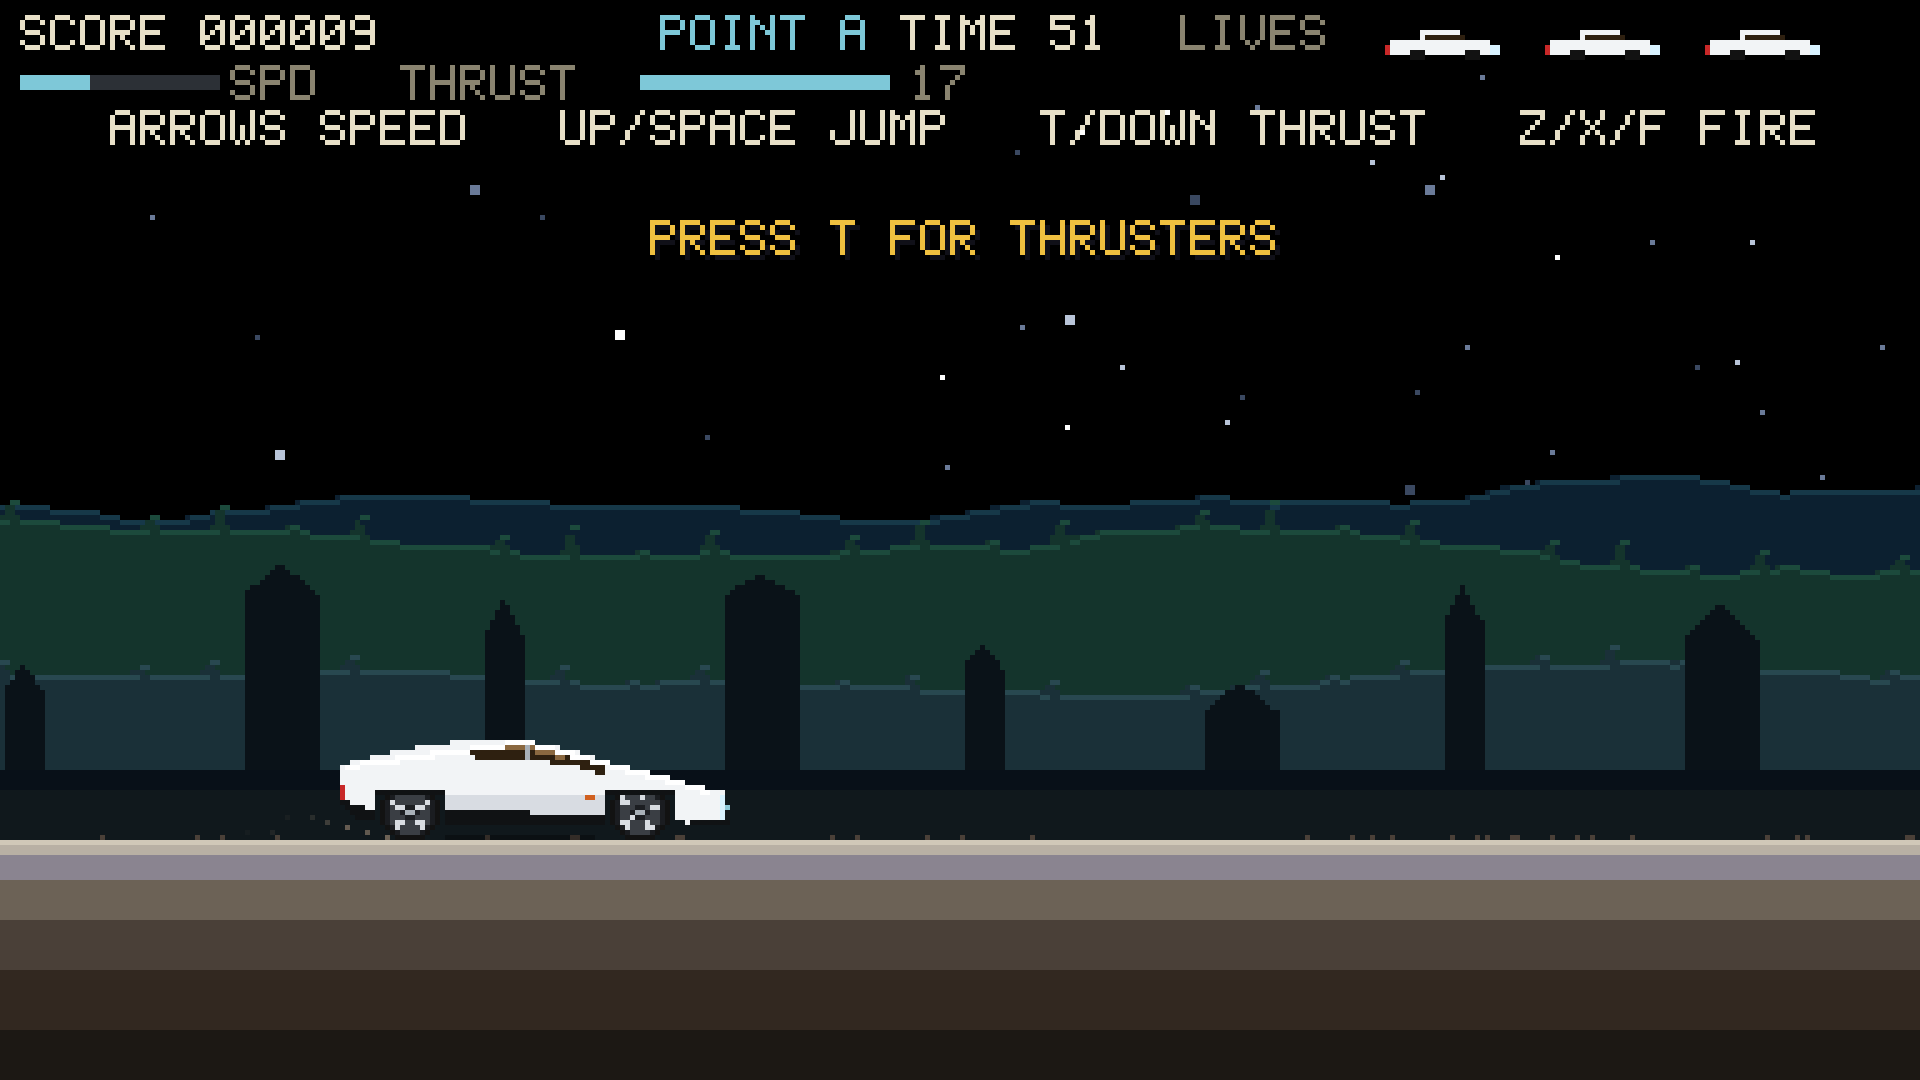
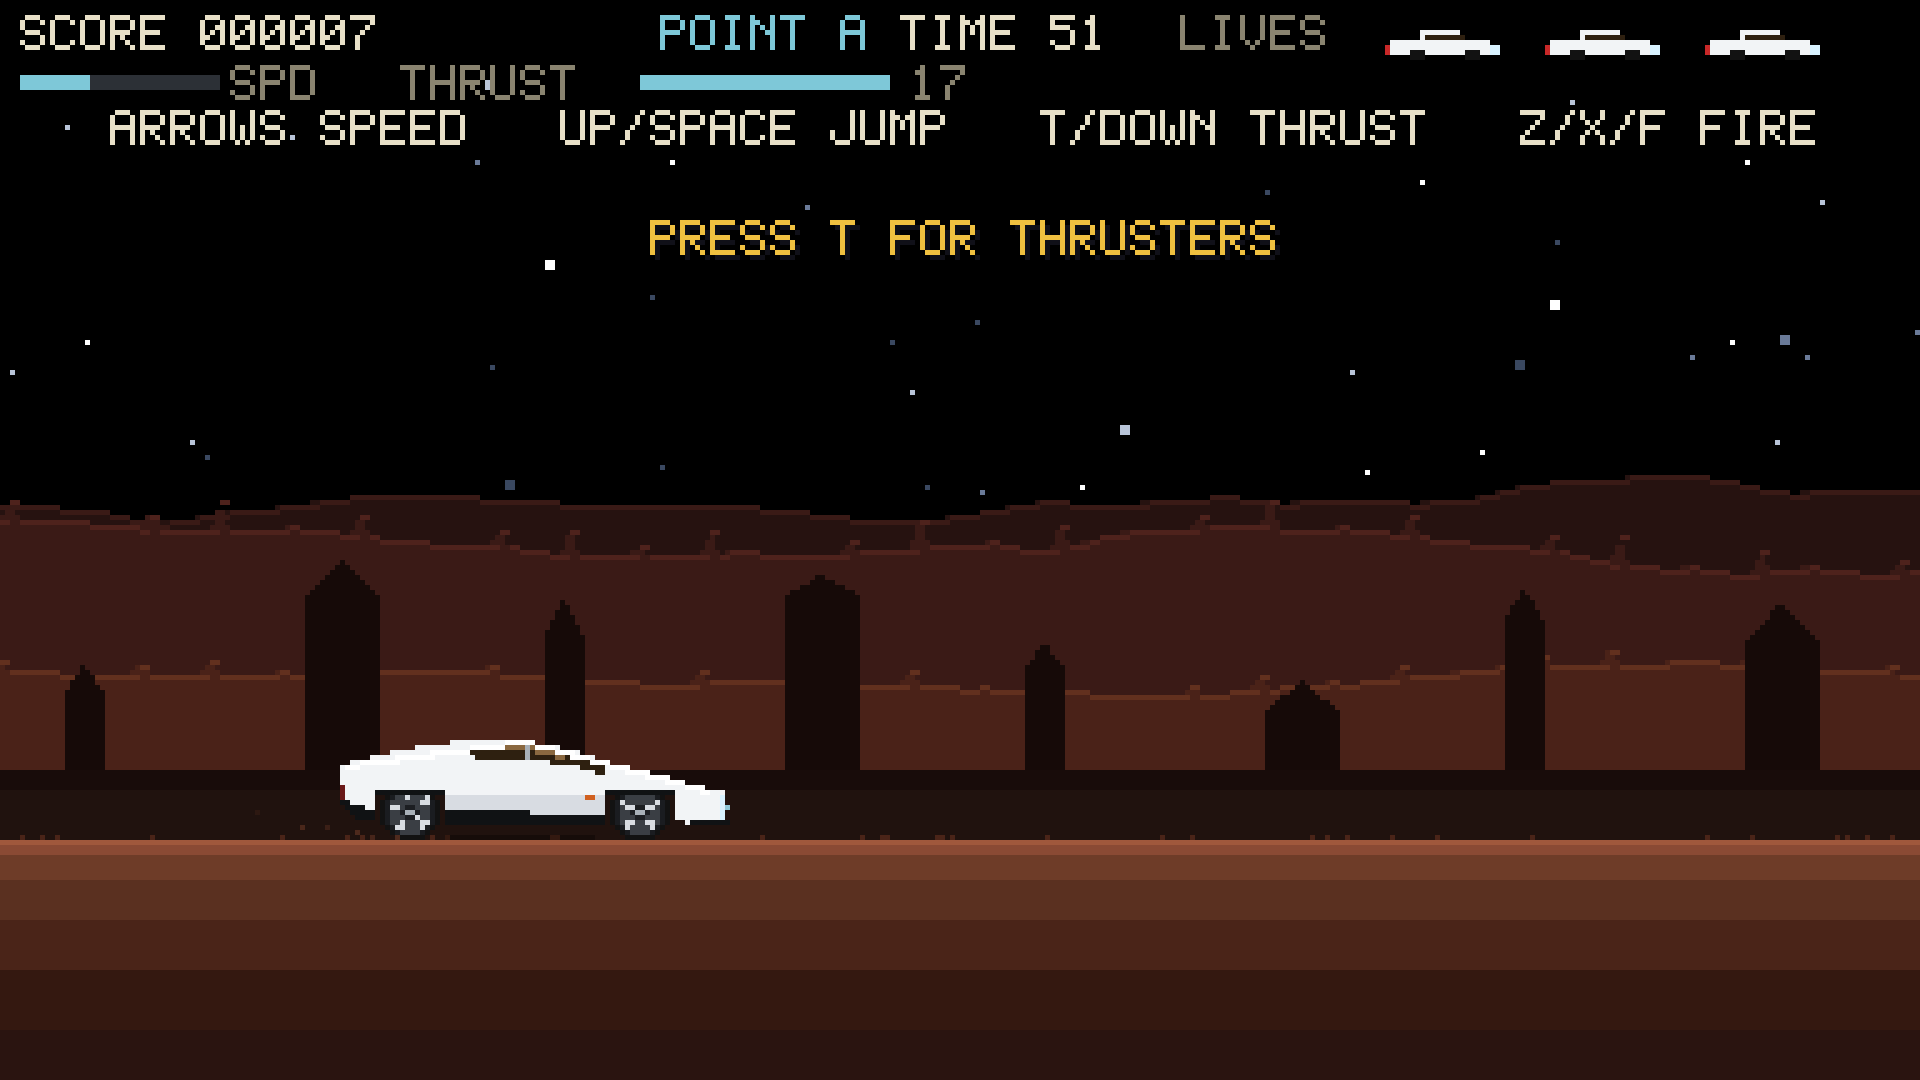
Tint the moon rust-red, lower the forward shot, and add a chiptune
Retint every landscape layer to dark reddish sand while keeping the
black sky and all existing shapes, so vehicles, rocks, craters, and
HUD still read clearly on both levels and the ending.

Fire the forward bullet just above the ground at rock height so it
destroys small and big rocks on both vehicles; the upward shot is
unchanged. Rocks still break in one hit.

Add an original looping WebAudio chiptune (E-minor hook, G-minor
level-2 variation) that starts after play begins, sits under the SFX
bus, mutes with M, and yields to the ending fanfare and game-over
sting.

diff --git a/index.html b/index.html
@@ -88,6 +88,7 @@
   const GRAVITY = 0.05;
   const JUMP_APEX = 58.8; // discrete peak of JUMP_V0 / GRAVITY
   const JUMP_CARRY = 0.9; // extra px/frame while airborne, so min-speed jumps still clear
+  const FORWARD_SHOT_Y = 6; // px above the vehicle's feet; just above ground, at rock height
   const HEAD_W = 19, HEAD_H = 26;
   const HEAD_MOUTH_X = 0.59, HEAD_MOUTH_Y = 0.69;
 
@@ -95,18 +96,18 @@
   const C = {
     sky: "#000000",
     star: ["#ffffff", "#b8c4d8", "#6a7a98", "#3a4860"],
-    far: "#16203a",
-    farHi: "#1e2c4e",
-    mid: "#3a2450",
-    midHi: "#4a3064",
-    near: "#2a3c44",
-    nearHi: "#355058",
-    city: "#0c141e",
+    far: "#2a1410",
+    farHi: "#3c1e18",
+    mid: "#3e1c16",
+    midHi: "#542820",
+    near: "#4e261a",
+    nearHi: "#6a3422",
+    city: "#1a0c0a",
     cityWin: ["#c8a24a", "#7ec8d8", "#d87840"],
-    ground: ["#b8b0a4", "#8a8490", "#6c6256", "#4a4038", "#322820", "#1c1814"],
-    lip: "#d0c8b8",
-    crater: "#141210",
-    craterWall: "#3a342c",
+    ground: ["#8a4a34", "#6e3c28", "#5a3020", "#4a2418", "#341810", "#2a1410"],
+    lip: "#a0583c",
+    crater: "#1a0c0a",
+    craterWall: "#4a241c",
     steelHi: "#e8eaee",
     steel: "#b0b6bc",
     steelMid: "#8a9098",
@@ -129,7 +130,7 @@
     ufoDk: "#2a3a28",
     ufoHi: "#c8d8a0",
     ufoLite: "#f0f060",
-    rock: ["#6a6258", "#4a463e", "#2e2c28", "#8a8278"],
+    rock: ["#5a3020", "#3a1c14", "#20100c", "#72402c"],
     hud: "#e8e0c8",
     hudDim: "#8a8470",
     accent: "#7ec8d8",
@@ -149,8 +150,8 @@
     puffDim: "#c8d0d8"
   };
 
-  const PAL_L1 = { far: "#16203a", farHi: "#1e2c4e", mid: "#3a2450", midHi: "#4a3064", near: "#2a3c44", nearHi: "#355058", city: "#0c141e", haze: "#0a0e14", band: "#12161c" };
-  const PAL_L2 = { far: "#0c2030", farHi: "#163848", mid: "#14342c", midHi: "#1c4a3c", near: "#1a3038", nearHi: "#284850", city: "#0a1218", haze: "#081018", band: "#10181c" };
+  const PAL_L1 = { far: "#2a1410", farHi: "#3c1e18", mid: "#3e1c16", midHi: "#542820", near: "#4e261a", nearHi: "#6a3422", city: "#1a0c0a", haze: "#1a0e0c", band: "#241410" };
+  const PAL_L2 = { far: "#261210", farHi: "#3a1a16", mid: "#3a1a16", midHi: "#4e221c", near: "#4a2218", nearHi: "#62301e", city: "#160a08", haze: "#180c0a", band: "#20120e" };
 
   const game = document.createElement("canvas");
   game.width = IW;
@@ -300,6 +301,9 @@
         this.master = this.ctx.createGain();
         this.master.gain.value = 0.2;
         this.master.connect(this.ctx.destination);
+        this.musicBus = this.ctx.createGain();
+        this.musicBus.gain.value = 0.55;
+        this.musicBus.connect(this.master);
       }
       if (this.ctx.state === "suspended") this.ctx.resume();
       return true;
@@ -364,6 +368,7 @@
     },
     warn() { this.tone(880, 0.08, "square", 0.07); },
     win() {
+      this.stopMusic();
       // short victory fanfare; tone() already no-ops when muted
       const notes = [
         [392, 0.16, 0.00], [523, 0.16, 0.12], [659, 0.16, 0.24],
@@ -373,22 +378,98 @@
       notes.forEach(([f, d, delay]) => this.tone(f, d, "square", 0.09, 0, delay));
       this.tone(262, 0.7, "triangle", 0.05, 0, 1.02);
     },
+    gameOver() {
+      this.stopMusic();
+      this.tone(196, 0.22, "square", 0.08, 0, 0);
+      this.tone(147, 0.28, "square", 0.08, 0, 0.18);
+      this.tone(110, 0.5, "sawtooth", 0.09, 55, 0.4);
+    },
     thrust() {
       this.noise(0.12, 0.07, 900);
       this.tone(180, 0.1, "square", 0.04, 0, 0);
     },
+    startMusic(delay) {
+      this.step = 0;
+      this.musicTime = 0;
+      this.musicHold = delay || 0;
+      if (this.musicBus && this.ctx) {
+        const t = this.ctx.currentTime;
+        this.musicBus.gain.cancelScheduledValues(t);
+        this.musicBus.gain.setTargetAtTime(0.55, t, 0.05);
+      }
+    },
+    stopMusic() {
+      this.musicTime = 0;
+      this.musicHold = 0;
+      this.step = 0;
+      if (this.musicBus && this.ctx) {
+        const t = this.ctx.currentTime;
+        this.musicBus.gain.cancelScheduledValues(t);
+        this.musicBus.gain.setTargetAtTime(0.0001, t, 0.04);
+      }
+    },
+    schedTone(at, freq, dur, type, vol) {
+      if (!freq || !this.ctx) return;
+      const o = this.ctx.createOscillator();
+      const g = this.ctx.createGain();
+      o.type = type || "square";
+      o.frequency.setValueAtTime(freq, at);
+      g.gain.setValueAtTime(0.0001, at);
+      g.gain.exponentialRampToValueAtTime(vol || 0.05, at + 0.008);
+      g.gain.exponentialRampToValueAtTime(0.0001, at + dur);
+      o.connect(g); g.connect(this.musicBus);
+      o.start(at); o.stop(at + dur + 0.02);
+    },
+    schedHat(at, vol) {
+      if (!this.ctx) return;
+      const n = this.ctx.createBufferSource();
+      const len = Math.max(1, Math.floor(this.ctx.sampleRate * 0.04));
+      const buf = this.ctx.createBuffer(1, len, this.ctx.sampleRate);
+      const d = buf.getChannelData(0);
+      for (let i = 0; i < len; i++) d[i] = Math.random() * 2 - 1;
+      n.buffer = buf;
+      const f = this.ctx.createBiquadFilter();
+      f.type = "highpass";
+      f.frequency.value = 1800;
+      const g = this.ctx.createGain();
+      g.gain.setValueAtTime(vol || 0.03, at);
+      g.gain.exponentialRampToValueAtTime(0.0001, at + 0.04);
+      n.connect(f); f.connect(g); g.connect(this.musicBus);
+      n.start(at); n.stop(at + 0.05);
+    },
+    // Original looping chiptune (not the Irem Moon Patrol tune):
+    // driving E-minor bass ostinato + syncopated lead hook; L2 is a
+    // slightly faster G-minor variation of the same idea.
     music(dt, playing) {
       if (!this.ctx || this.muted || !this.musicOn || !playing) return;
       if (this.ctx.state === "suspended") return;
-      this.nextNote -= dt;
-      if (this.nextNote > 0) return;
-      const bass = [98, 98, 110, 87, 98, 130, 110, 82];
-      const lead = [0, 196, 0, 233, 196, 0, 262, 233];
-      const i = this.step % 8;
-      this.tone(bass[i], 0.14, "triangle", 0.035);
-      if (lead[i]) this.tone(lead[i], 0.1, "square", 0.025);
-      this.step++;
-      this.nextNote = 0.18;
+      if (this.musicHold > 0) {
+        this.musicHold -= dt;
+        return;
+      }
+      if (this.musicBus && this.musicBus.gain.value < 0.2) {
+        this.musicBus.gain.setTargetAtTime(0.55, this.ctx.currentTime, 0.05);
+      }
+      const now = this.ctx.currentTime;
+      if (!this.musicTime || this.musicTime < now - 0.2) this.musicTime = now;
+      const stepLen = (level === 2 ? 0.102 : 0.114);
+      const bass1 = [82,82,0,82, 123,0,82,0, 98,98,0,73, 110,0,123,0, 82,82,0,82, 123,0,98,0, 110,0,123,147, 82,0,82,0];
+      const lead1 = [330,0,392,440, 494,0,440,392, 330,0,294,0, 330,392,440,0, 494,440,392,330, 294,0,330,0, 392,440,494,587, 494,440,392,0];
+      const bass2 = [98,98,0,98, 147,0,98,0, 110,110,0,87, 123,0,147,0, 98,98,0,98, 147,0,110,0, 123,0,147,165, 98,0,98,0];
+      const lead2 = [392,0,440,466, 587,0,523,466, 392,0,349,0, 392,440,466,0, 587,523,466,392, 349,0,392,0, 440,466,587,698, 587,523,466,0];
+      const bass = level === 2 ? bass2 : bass1;
+      const lead = level === 2 ? lead2 : lead1;
+      while (this.musicTime < now + 0.08) {
+        const i = this.step % 32;
+        const at = this.musicTime;
+        if (bass[i]) this.schedTone(at, bass[i], 0.13, "triangle", 0.05);
+        if (lead[i]) this.schedTone(at, lead[i], 0.10, "square", 0.032);
+        if (i % 8 === 0 && bass[i]) this.schedTone(at, bass[i] * 0.5, 0.16, "triangle", 0.025);
+        if (i % 4 === 2) this.schedHat(at, 0.028);
+        if (i % 8 === 4) this.schedHat(at, 0.04);
+        this.step++;
+        this.musicTime += stepLen;
+      }
     }
   };
 
@@ -1480,22 +1561,22 @@
   }
 
   function drawLunarHills(g) {
-    // far soft mounds, monochrome like the official HLS lunar render
-    fillPoly(g, [[-10, 150], [40, 128], [90, 138], [140, 124], [200, 140], [260, 130], [320, 142], [400, 132], [400, 168], [-10, 168]], "#1c1c20");
-    fillPoly(g, [[-10, 156], [50, 142], [110, 150], [170, 140], [230, 152], [300, 144], [400, 150], [400, 168], [-10, 168]], "#2a2a2e");
+    // far soft mounds, same shapes, dark reddish lunar sand
+    fillPoly(g, [[-10, 150], [40, 128], [90, 138], [140, 124], [200, 140], [260, 130], [320, 142], [400, 132], [400, 168], [-10, 168]], C.far);
+    fillPoly(g, [[-10, 156], [50, 142], [110, 150], [170, 140], [230, 152], [300, 144], [400, 150], [400, 168], [-10, 168]], C.mid);
   }
 
   function drawLunarGround(g) {
-    fillRect(g, 0, GROUND_Y, IW, IH - GROUND_Y, "#6a6460");
-    fillRect(g, 0, GROUND_Y, IW, 8, "#8a847c");
-    fillRect(g, 0, GROUND_Y + 8, IW, 14, "#5a5650");
-    fillRect(g, 0, GROUND_Y + 22, IW, IH - GROUND_Y - 22, "#3a3632");
+    fillRect(g, 0, GROUND_Y, IW, IH - GROUND_Y, C.ground[2]);
+    fillRect(g, 0, GROUND_Y, IW, 8, C.ground[0]);
+    fillRect(g, 0, GROUND_Y + 8, IW, 14, C.ground[2]);
+    fillRect(g, 0, GROUND_Y + 22, IW, IH - GROUND_Y - 22, C.ground[4]);
     // shallow craters
     const craters = [[30, 6, 3], [90, 14, 4], [160, 8, 2], [210, 18, 3], [300, 11, 2], [350, 20, 5], [70, 28, 3]];
     for (let i = 0; i < craters.length; i++) {
       const [x, dy, r] = craters[i];
-      fillCircle(g, x, GROUND_Y + dy, r, "#3a3632");
-      fillCircle(g, x - 1, GROUND_Y + dy - 1, Math.max(1, r - 2), "#5a544e");
+      fillCircle(g, x, GROUND_Y + dy, r, C.ground[4]);
+      fillCircle(g, x - 1, GROUND_Y + dy - 1, Math.max(1, r - 2), C.ground[2]);
     }
   }
 
@@ -1984,7 +2065,7 @@
     const originX = worldX + player.sx;
     const air = player.air;
     const by = GROUND_Y - air;
-    bullets.push({ x: originX + vehW(), y: by - vehNoseH() + (player.frontS + player.rearS) * 0.2, vx: 4.2, vy: 0, live: true, kind: 0 });
+    bullets.push({ x: originX + vehW(), y: by - FORWARD_SHOT_Y, vx: 4.2, vy: 0, live: true, kind: 0 });
     bullets.push({ x: originX + vehPeakX(), y: by - (vehPeakH() + 1) + (player.frontS + player.rearS) * 0.2, vx: player.speed, vy: -3.6, live: true, kind: 1 });
     SFX.shoot();
   }
@@ -2037,6 +2118,7 @@
   function respawnOrOver() {
     if (lives <= 0) {
       mode = "gameover";
+      SFX.gameOver();
       return;
     }
     mode = "playing";
@@ -2305,7 +2387,7 @@
       for (let j = 0; j < bullets.length; j++) {
         const b = bullets[j];
         if (!b.live || b.kind === 1) continue; // vertical shots usually miss ground rocks; allow if low
-        if (b.x > r.x - 1 && b.x < r.x + r.w + 1 && b.y > GROUND_Y - r.h - 2 && b.y < GROUND_Y + 2) {
+        if (b.x > r.x - 1 && b.x < r.x + r.w + 1 && b.y >= GROUND_Y - r.h - 2 && b.y < GROUND_Y + 2) {
           b.live = false;
           hitRock(r);
           break;
@@ -2666,6 +2748,7 @@
     } else {
       mode = "playing";
     }
+    if (keepScore) SFX.startMusic(0.15);
   }
 
   function startEnding() {
@@ -2692,6 +2775,7 @@
     const n = (wantedLevel === 2 ? 2 : 1);
     wantedLevel = 1;
     beginLevel(n, false);
+    SFX.startMusic(0.5);
   }
 
   function tick(dt) {
@@ -2719,7 +2803,7 @@
         player.speed = player.defaultSpeed;
         mode = "playing";
       }
-      SFX.music(dt, false);
+      SFX.music(dt, true);
     } else if (mode === "playing") {
       if (input.pausePress) { resumeMode = mode; mode = "pause"; }
       else updatePlaying();
